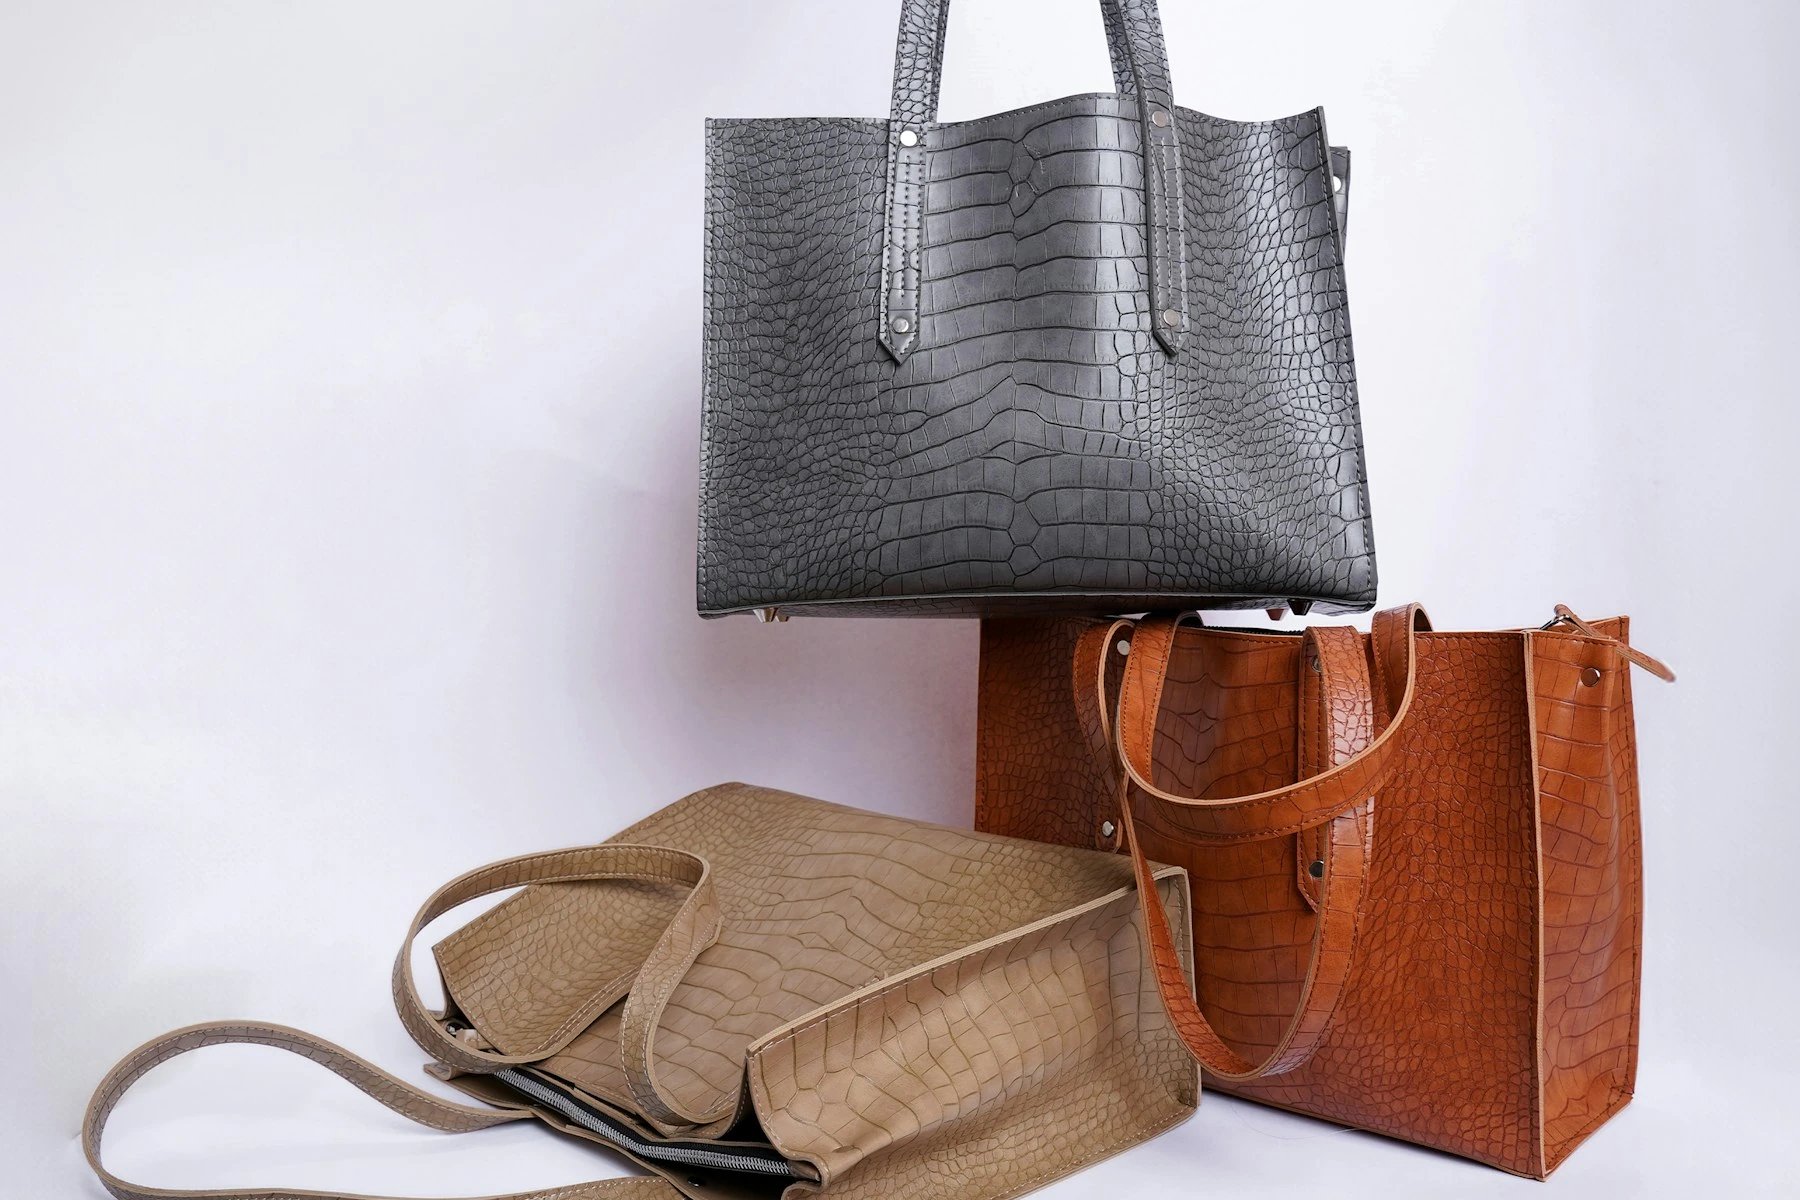
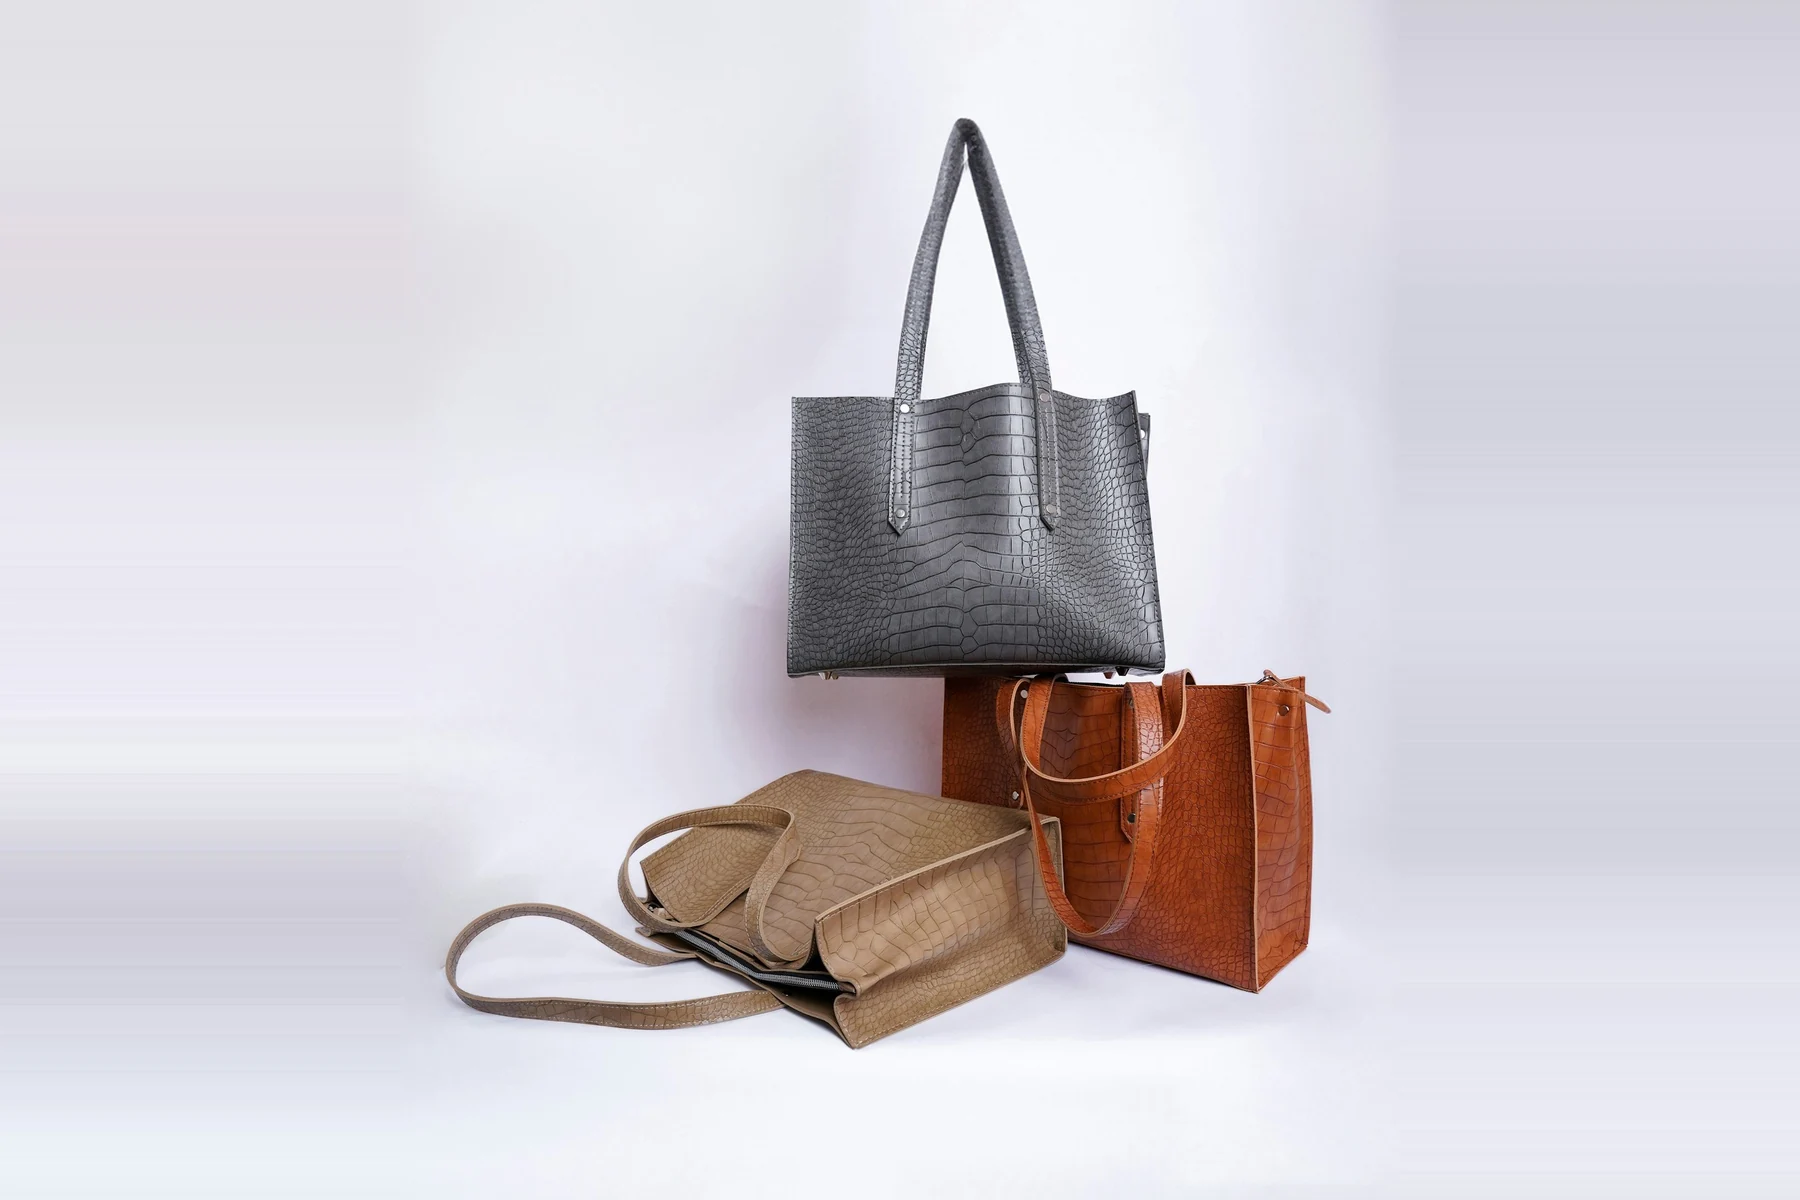
Prepare BAGATI for Cloudways deployment

diff --git a/public/images/home/README.md b/public/images/home/README.md
@@ -5,7 +5,7 @@ The carousel uses local, optimized photographs as category mood imagery. They ar
 ## Current carousel assets
 
 - `hero-tech.webp` — a warm-neutral, multi-device flat lay featuring a smartphone, smartwatch, wireless earbuds and case, with a separate wireless over-ear headphone photo arranged as a framed inset. Sources: [Pexels photo 2933606](https://www.pexels.com/photo/arranged-mobile-phone-with-gadgets-2933606/) and [Pexels photo 3394650](https://www.pexels.com/photo/white-wireless-headphones-3394650/). Both are available under the [Pexels License](https://www.pexels.com/license/), which permits use in websites and e-commerce shops.
-- `hero-fashion.webp` — a wide crop of three unbranded handbags in gray, caramel, and beige tones. Source: [Unsplash photo](https://unsplash.com/photos/three-different-types-of-purses-on-a-white-background-eCSEAlw85zc), available under the [Unsplash License](https://unsplash.com/license).
+- `hero-fashion.webp` — a centered 3:2 composition showing all three unbranded handbags in gray, caramel, and beige tones, including their handles and outer edges. It uses a crop of the original portrait photo with the photo's own neutral background extended to the sides for the wide hero panel. Source: [Unsplash photo](https://unsplash.com/photos/three-different-types-of-purses-on-a-white-background-eCSEAlw85zc), available under the [Unsplash License](https://unsplash.com/license).
 - `hero-home.webp` — the approved neutral living-room interior, by [Spacejoy](https://unsplash.com/@spacejoy). [Source photo](https://unsplash.com/photos/white-and-brown-living-room-set-9M66C_w_ToM). This asset remains unchanged.
 
 The tech and fashion assets are optimized as local 1800×1200 WebP files. Photographs are illustrative only and do not imply that BAGATI sells or is affiliated with any pictured brand. Product tiles are populated only from the marketplace catalog.
